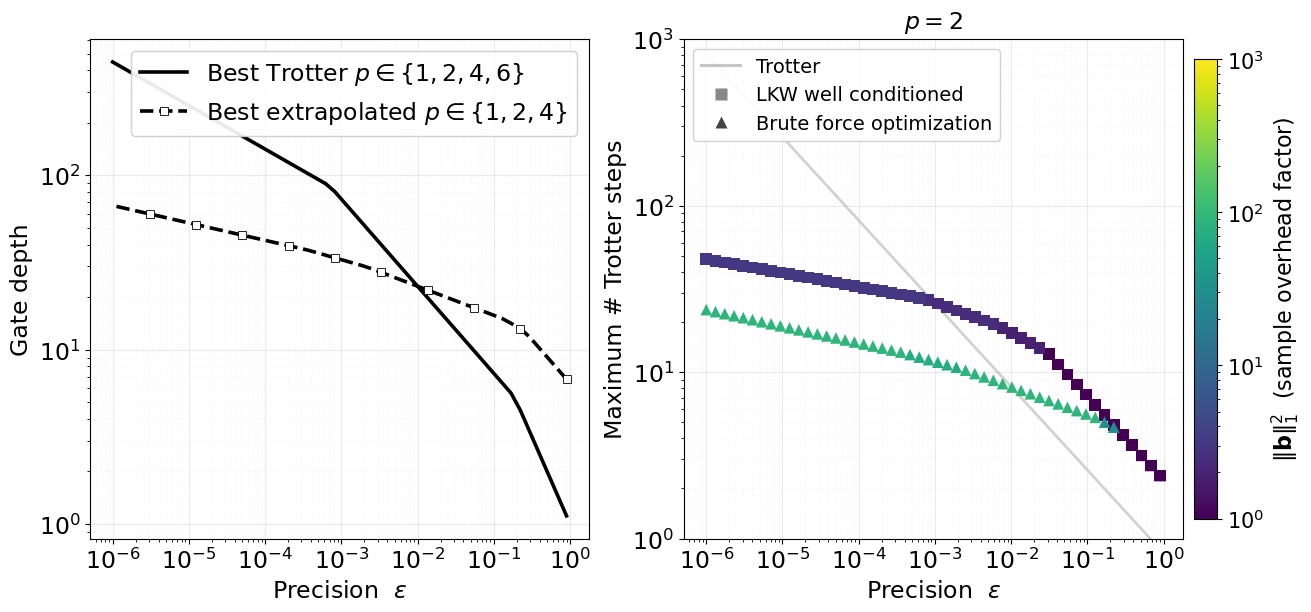
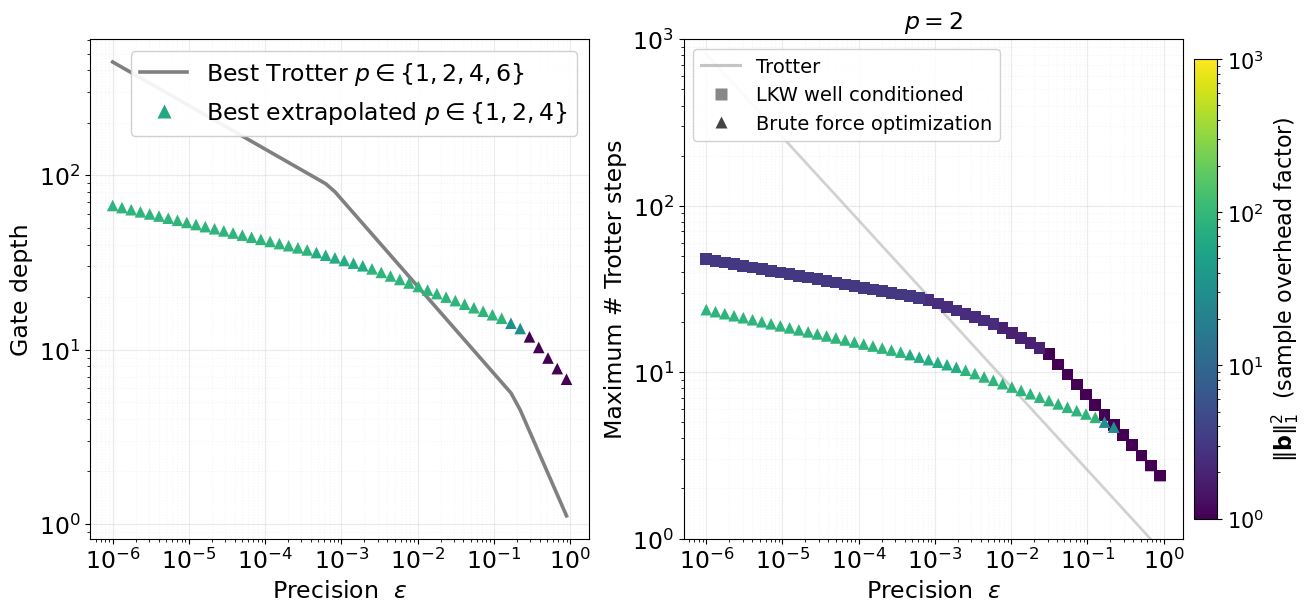
summary: left panel as sample-overhead triangles on shared scale; gray Trotter
Left (gate-depth) panel now matches the right panel's encoding: Best
extrapolated drawn as triangles colored by sample overhead ||b||_1^2 on the
same viridis 1..1000 LogNorm (shared colorbar), and the Best Trotter envelope
drawn in gray.

diff --git a/plotting/plot_summary.py b/plotting/plot_summary.py
@@ -60,6 +60,8 @@ def _style(ax, *, xlabel=True, ylabel=None, title=None):
 
 
 def _gate_depth_envelopes(g: dict):
+    """Best-Trotter / best-extrapolated envelopes, plus the sample overhead
+    ``‖b‖₁²`` of the winning Richardson schedule at each ε."""
     eps = np.array(g["epsilon"])
     orders = g["orders"]
     trot6 = rt.gate_overhead(TROTTER_EXTRA_ORDER) ** (1 + 1 / TROTTER_EXTRA_ORDER) * (
@@ -67,32 +69,44 @@ def _gate_depth_envelopes(g: dict):
     ) * ((2 / (1 + TROTTER_EXTRA_ORDER)) ** (1.0 / TROTTER_EXTRA_ORDER))
     trot_curves = [trot6]
     rich_env = np.full(len(eps), np.inf)
+    so_env = np.full(len(eps), np.nan)
     for p in orders:
         rp = g["results"][str(p)]
         trot_curves.append(np.array(rp.get("wc", rp["opt"])["trotter_steps"]))
-        ro = np.array(rp["opt"]["richardson_steps"])
-        if "wc" in rp:
-            ro = np.minimum(ro, np.array(rp["wc"]["richardson_steps"]))
-        rich_env = np.minimum(rich_env, ro)
-    return eps, orders, np.minimum.reduce(trot_curves), rich_env
+        for mode in ("wc", "opt"):
+            if mode not in rp:
+                continue
+            steps = np.array(rp[mode]["richardson_steps"])
+            so = np.array(rp[mode]["bnorm1_sq"])
+            better = steps < rich_env
+            rich_env = np.where(better, steps, rich_env)
+            so_env = np.where(better, so, so_env)
+    return eps, orders, np.minimum.reduce(trot_curves), rich_env, so_env
 
 
 def _draw_gate_depth_panel(ax, g: dict):
-    eps, orders, trot_env, rich_env = _gate_depth_envelopes(g)
+    eps, orders, trot_env, rich_env, so_env = _gate_depth_envelopes(g)
     trot_p_tex = ",".join(str(x) for x in sorted(set(orders) | {TROTTER_EXTRA_ORDER}))
     ext_p_tex = ",".join(str(p) for p in orders)
+    norm = mcolors.LogNorm(vmin=CBAR_VMIN, vmax=CBAR_VMAX, clip=False)
+    cmap = plt.get_cmap("viridis")
     ax.plot(
-        eps, trot_env, "k-", linewidth=PLOT_LW + 0.35, zorder=4,
+        eps, trot_env, "-", color="gray", linewidth=PLOT_LW + 0.35, zorder=2,
         label=rf"Best Trotter $p \in \{{{trot_p_tex}\}}$",
     )
-    ax.plot(
-        eps, rich_env, "k--", linewidth=PLOT_LW + 0.35, marker="s", markersize=5.5,
-        markevery=max(1, len(eps) // 10), markeredgecolor="black", markeredgewidth=0.6,
-        markerfacecolor="white", zorder=4,
-        label=rf"Best extrapolated $p \in \{{{ext_p_tex}\}}$",
+    ax.scatter(
+        eps, rich_env, c=so_env, cmap=cmap, norm=norm, marker="^", s=70,
+        linewidths=0, edgecolors="none", zorder=3,
     )
     _style(ax, ylabel="Gate depth")
-    ax.legend(fontsize=FS, loc="upper right", framealpha=0.92)
+    handles = [
+        Line2D([0], [0], color="gray", linewidth=PLOT_LW + 0.35,
+               label=rf"Best Trotter $p \in \{{{trot_p_tex}\}}$"),
+        Line2D([0], [0], marker="^", linestyle="None", markersize=10,
+               markerfacecolor=cmap(0.6), markeredgecolor="none",
+               label=rf"Best extrapolated $p \in \{{{ext_p_tex}\}}$"),
+    ]
+    ax.legend(handles=handles, fontsize=FS, loc="upper right", framealpha=0.92)
 
 
 def _draw_overhead_panel(ax, o: dict, p: int):
